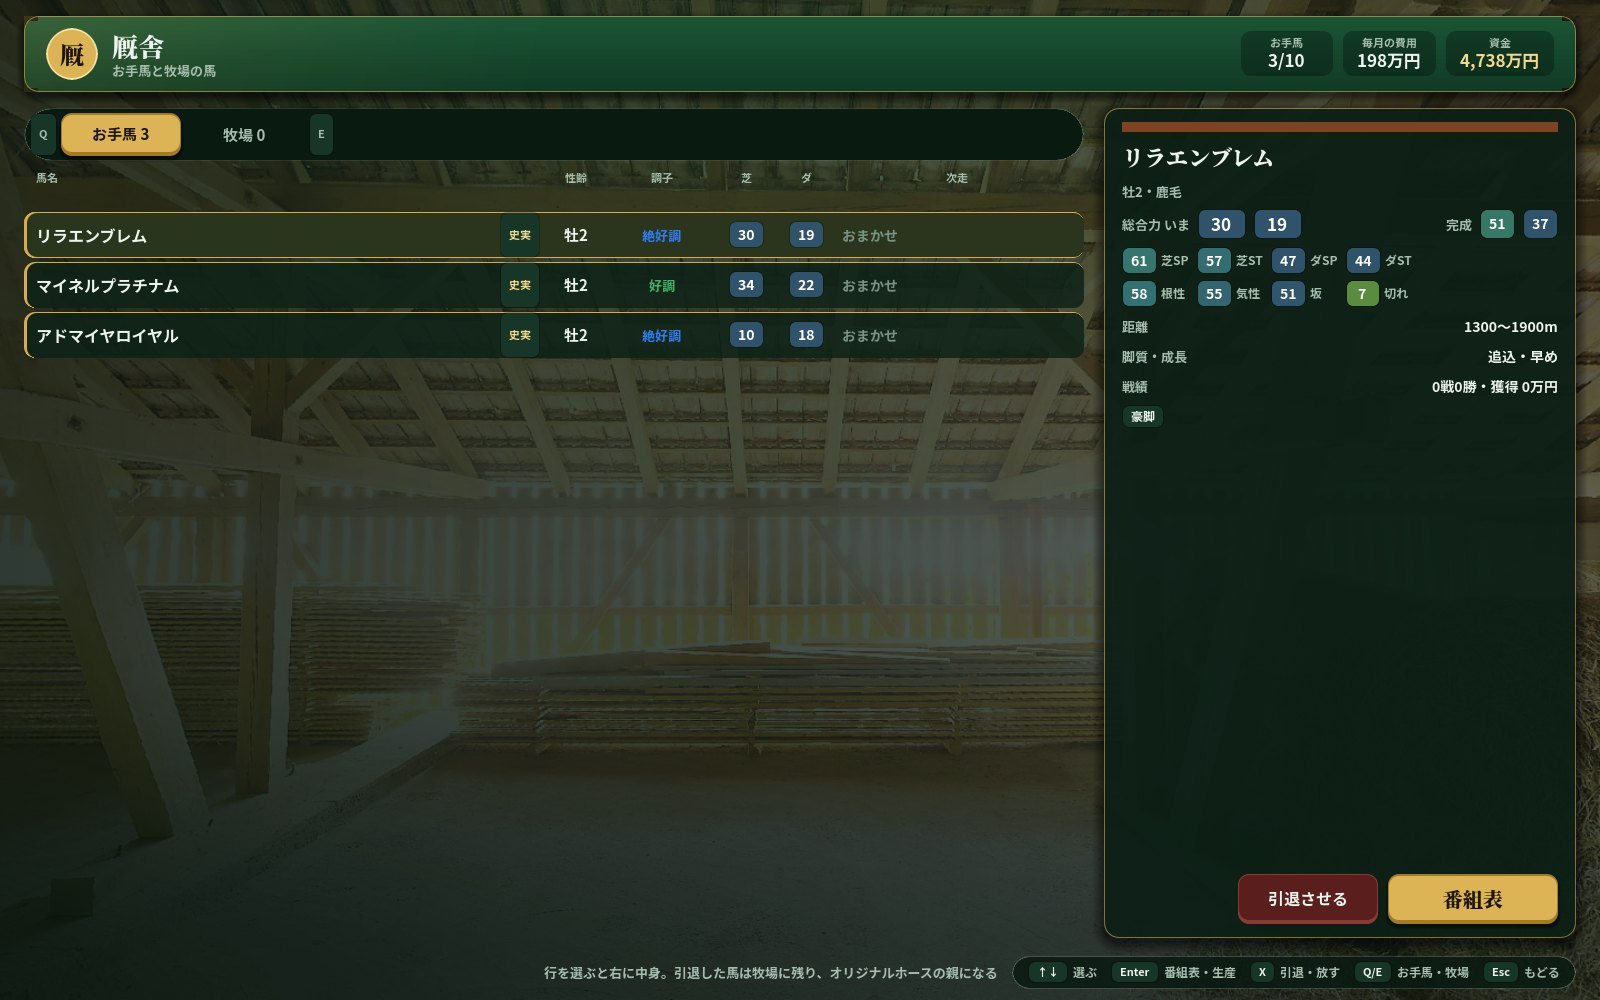
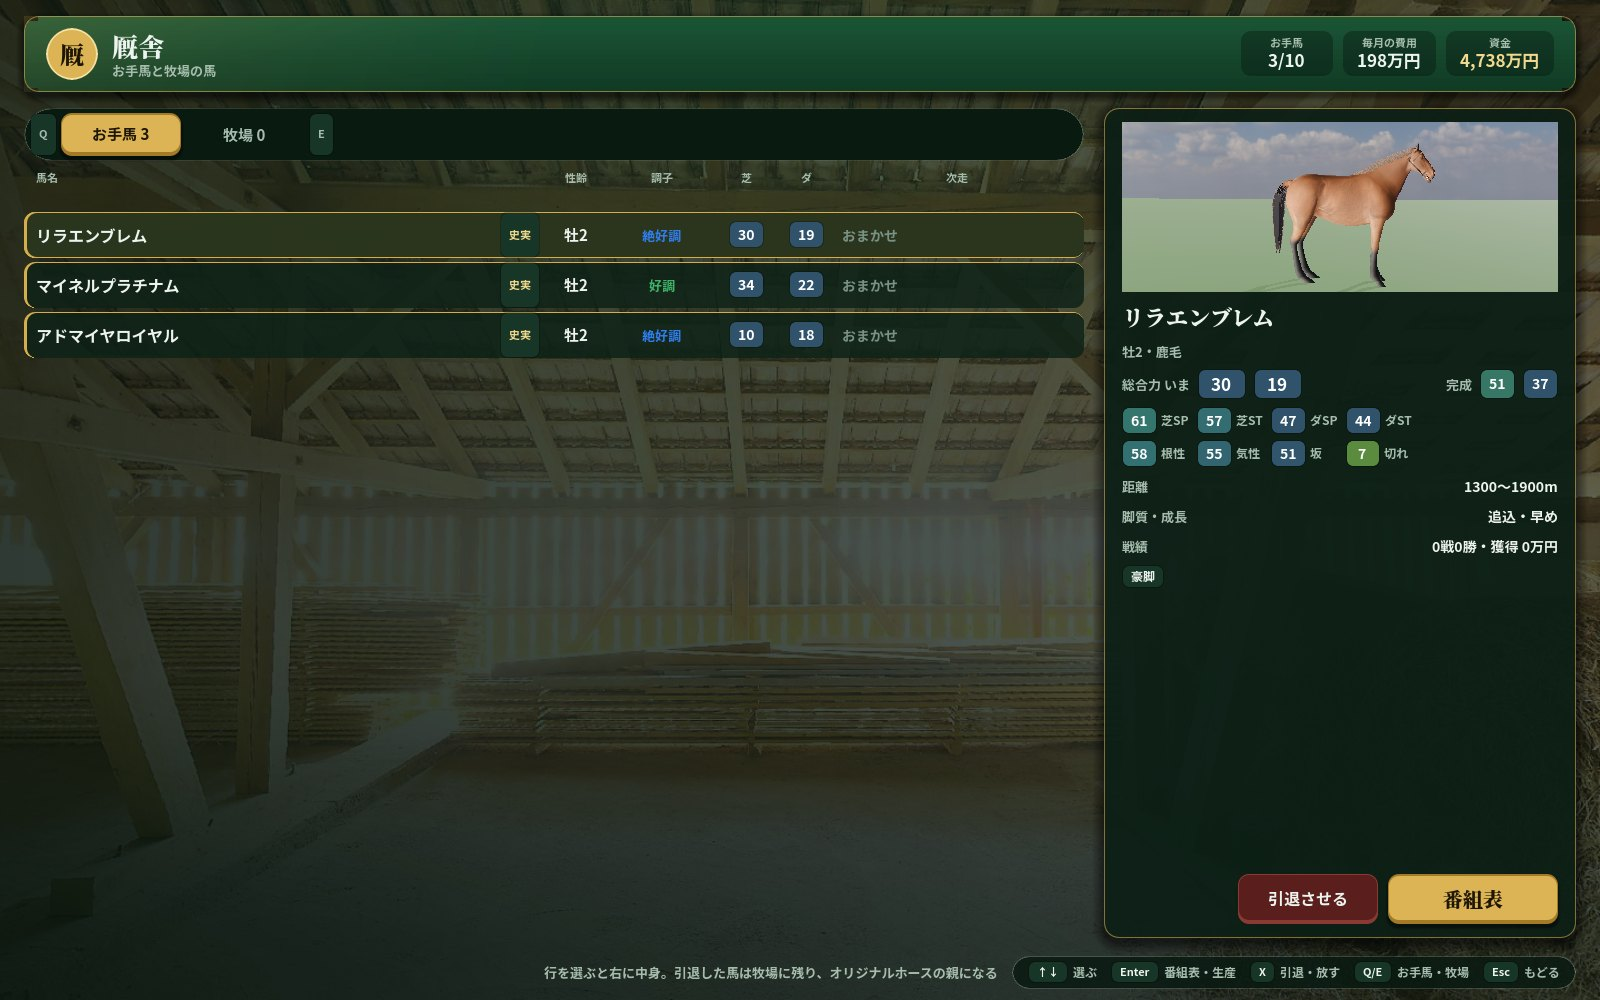
Godot 版の画面の手直し（docs/UI.md の次に直す所）：店と厩舎の見本に3Dの馬の立ち姿・番組表の行を詰める・ホームに今週の重賞・週の結果は鞍の数で着順の表・生産は父と母がそろうと「作る」へ・データに乗った馬と騎乗の記録
- ui/horse_portrait.gd（UiHorsePortrait）：ViewHorse を小さな窓に立たせる（騎手・鞍・ゼッケンは隠す。毛色と白徴は UiArt の決まり）
- 採点を書き直す：生産 12、番組表は 11 のまま（1画面に17行）

Claude-Session: https://claude.ai/code/session_012moqMZoGGmPRF5mXBS6M9y

Changed region(s): [[0.6875, 0.124, 1.0, 0.589], [0.875, 0.465, 0.9688, 0.558]]

diff --git a/docs/UI.md b/docs/UI.md
@@ -246,14 +246,14 @@ JS 版の関数名（`UI.kit`）と、Godot で作るときの形。
 | 画面 | A | B | C | D | E | F | 計 | 次に直す所 |
 |---|---|---|---|---|---|---|---|---|
 | タイトル | 2 | 2 | 2 | 2 | 2 | 2 | 12 | |
-| ホーム | 2 | 2 | 2 | 2 | 2 | 2 | 12 | お手馬が少ないときに下半分が空く（依頼の札を大きくするか、馬の絵を出す） |
-| 番組表 | 2 | 2 | 2 | 2 | 2 | 1 | 11 | 1画面に1か月半。行をもう少し詰めて2か月分に |
-| 馬の店 | 2 | 2 | 2 | 2 | 2 | 2 | 12 | 見本の絵（いまは毛色の帯だけ） |
+| ホーム | 2 | 2 | 2 | 2 | 2 | 2 | 12 | （お手馬が少ないときは今週の重賞で下を埋めた） |
+| 番組表 | 2 | 2 | 2 | 2 | 2 | 1 | 11 | 行を 32px に詰めて1画面に17行（1か月と少し）。条件戦が週に3つあると2か月分は入らない。絞り込みの札を馬の要点と同じ行に置けば2か月に近づく |
+| 馬の店 | 2 | 2 | 2 | 2 | 2 | 2 | 12 | （見本に3Dの馬の立ち姿を出した。`ui/horse_portrait.gd`） |
 | 出走表（週のレース） | 2 | 2 | 2 | 2 | 2 | 2 | 12 | |
-| 週の結果 | 2 | 2 | 2 | 2 | 2 | 2 | 12 | 3鞍以上の週は着順の表を出さない（札だけ） |
-| 厩舎 | 2 | 2 | 2 | 2 | 2 | 2 | 12 | 見本の絵（いまは毛色の帯だけ） |
-| 生産 | 2 | 1 | 2 | 2 | 2 | 2 | 11 | 父と母を選ぶ前は金のボタンが押せない形で、次に押す所は行。選んだら金へカーソルを移す |
-| データ | 2 | 1 | 2 | 2 | 2 | 2 | 11 | 主な操作が無い画面（見るだけ）。リプレイ・乗った馬・騎乗の記録のタブはまだ |
+| 週の結果 | 2 | 2 | 2 | 2 | 2 | 2 | 12 | （着順の表は鞍の数で10・5・3頭に） |
+| 厩舎 | 2 | 2 | 2 | 2 | 2 | 2 | 12 | （見本に3Dの馬の立ち姿） |
+| 生産 | 2 | 2 | 2 | 2 | 2 | 2 | 12 | （父と母がそろうと「作る」へカーソルが移る） |
+| データ | 2 | 1 | 2 | 2 | 2 | 2 | 11 | 主な操作が無い画面（見るだけ）。リプレイのタブはまだ（乗った馬・騎乗の記録は足した） |
 | 馬主 | 2 | 2 | 2 | 2 | 2 | 2 | 12 | |
 | グランドフィナーレ | 2 | 1 | 2 | 2 | 2 | 2 | 11 | 招待の無い時期は主な操作が無い |
 | 見せ場・ご褒美の場面（小窓） | 2 | 2 | 2 | 2 | 2 | 2 | 12 | |

diff --git a/CHANGELOG.md b/CHANGELOG.md
@@ -1,6 +1,7 @@
 # 更新履歴
 
 ## 次の版
+- Godot 版の馬の店と厩舎の見本に、3Dの馬の立ち姿を出すようにした。データに「乗った馬」「騎乗の記録」を足し、ホームの空いた所に今週の重賞を出す。
 - 逃げ馬と追込馬に特殊能力を足した。逃げ：息入れ○・二段ロケット・幻惑逃げ（スローで先頭なら後ろの差し・追込が脚を使わされる）・番手×（弱み）。追込：後方待機○・追走○・外回し○・馬群さばき（自分で乗ると横に速く動ける）。どの脚質にも道悪○・外枠○。伝説級の名馬13頭に、その馬だけの固有の能力（金の札★）を付けた。親にすればオリジナルホースに受け継げる
 - Godot 版に厩舎（引退）・生産（オリジナルホース）・データ（成績・スペシャルホース・トロフィー・リーディング・表彰・殿堂・コースレコード）・馬主（好感度とご褒美・勝負服）・グランドフィナーレ（招待と出す馬・ファンの票の順位）の画面を足した。G1・トロフィー・スペシャルホースを破ったときの見せ場と、馬主のご褒美の場面も出る。出走表のスペシャルホースに印を付け、ホームにスペシャルホースのリーチを出す。
 - Godot 版で騎手のゲームの週の流れを遊べるようにした：タイトル（はじめから・つづきから）→ ホーム（暦・資金・お手馬・馬主の騎乗依頼）→ 番組表（出走・予約）・馬の店 → 出走表 → 騎乗（その週の本当のレース）→ 週の結果（着順・進上金・馬主のひと言）→ 次の週。週を締めるたびに自動でセーブする。
